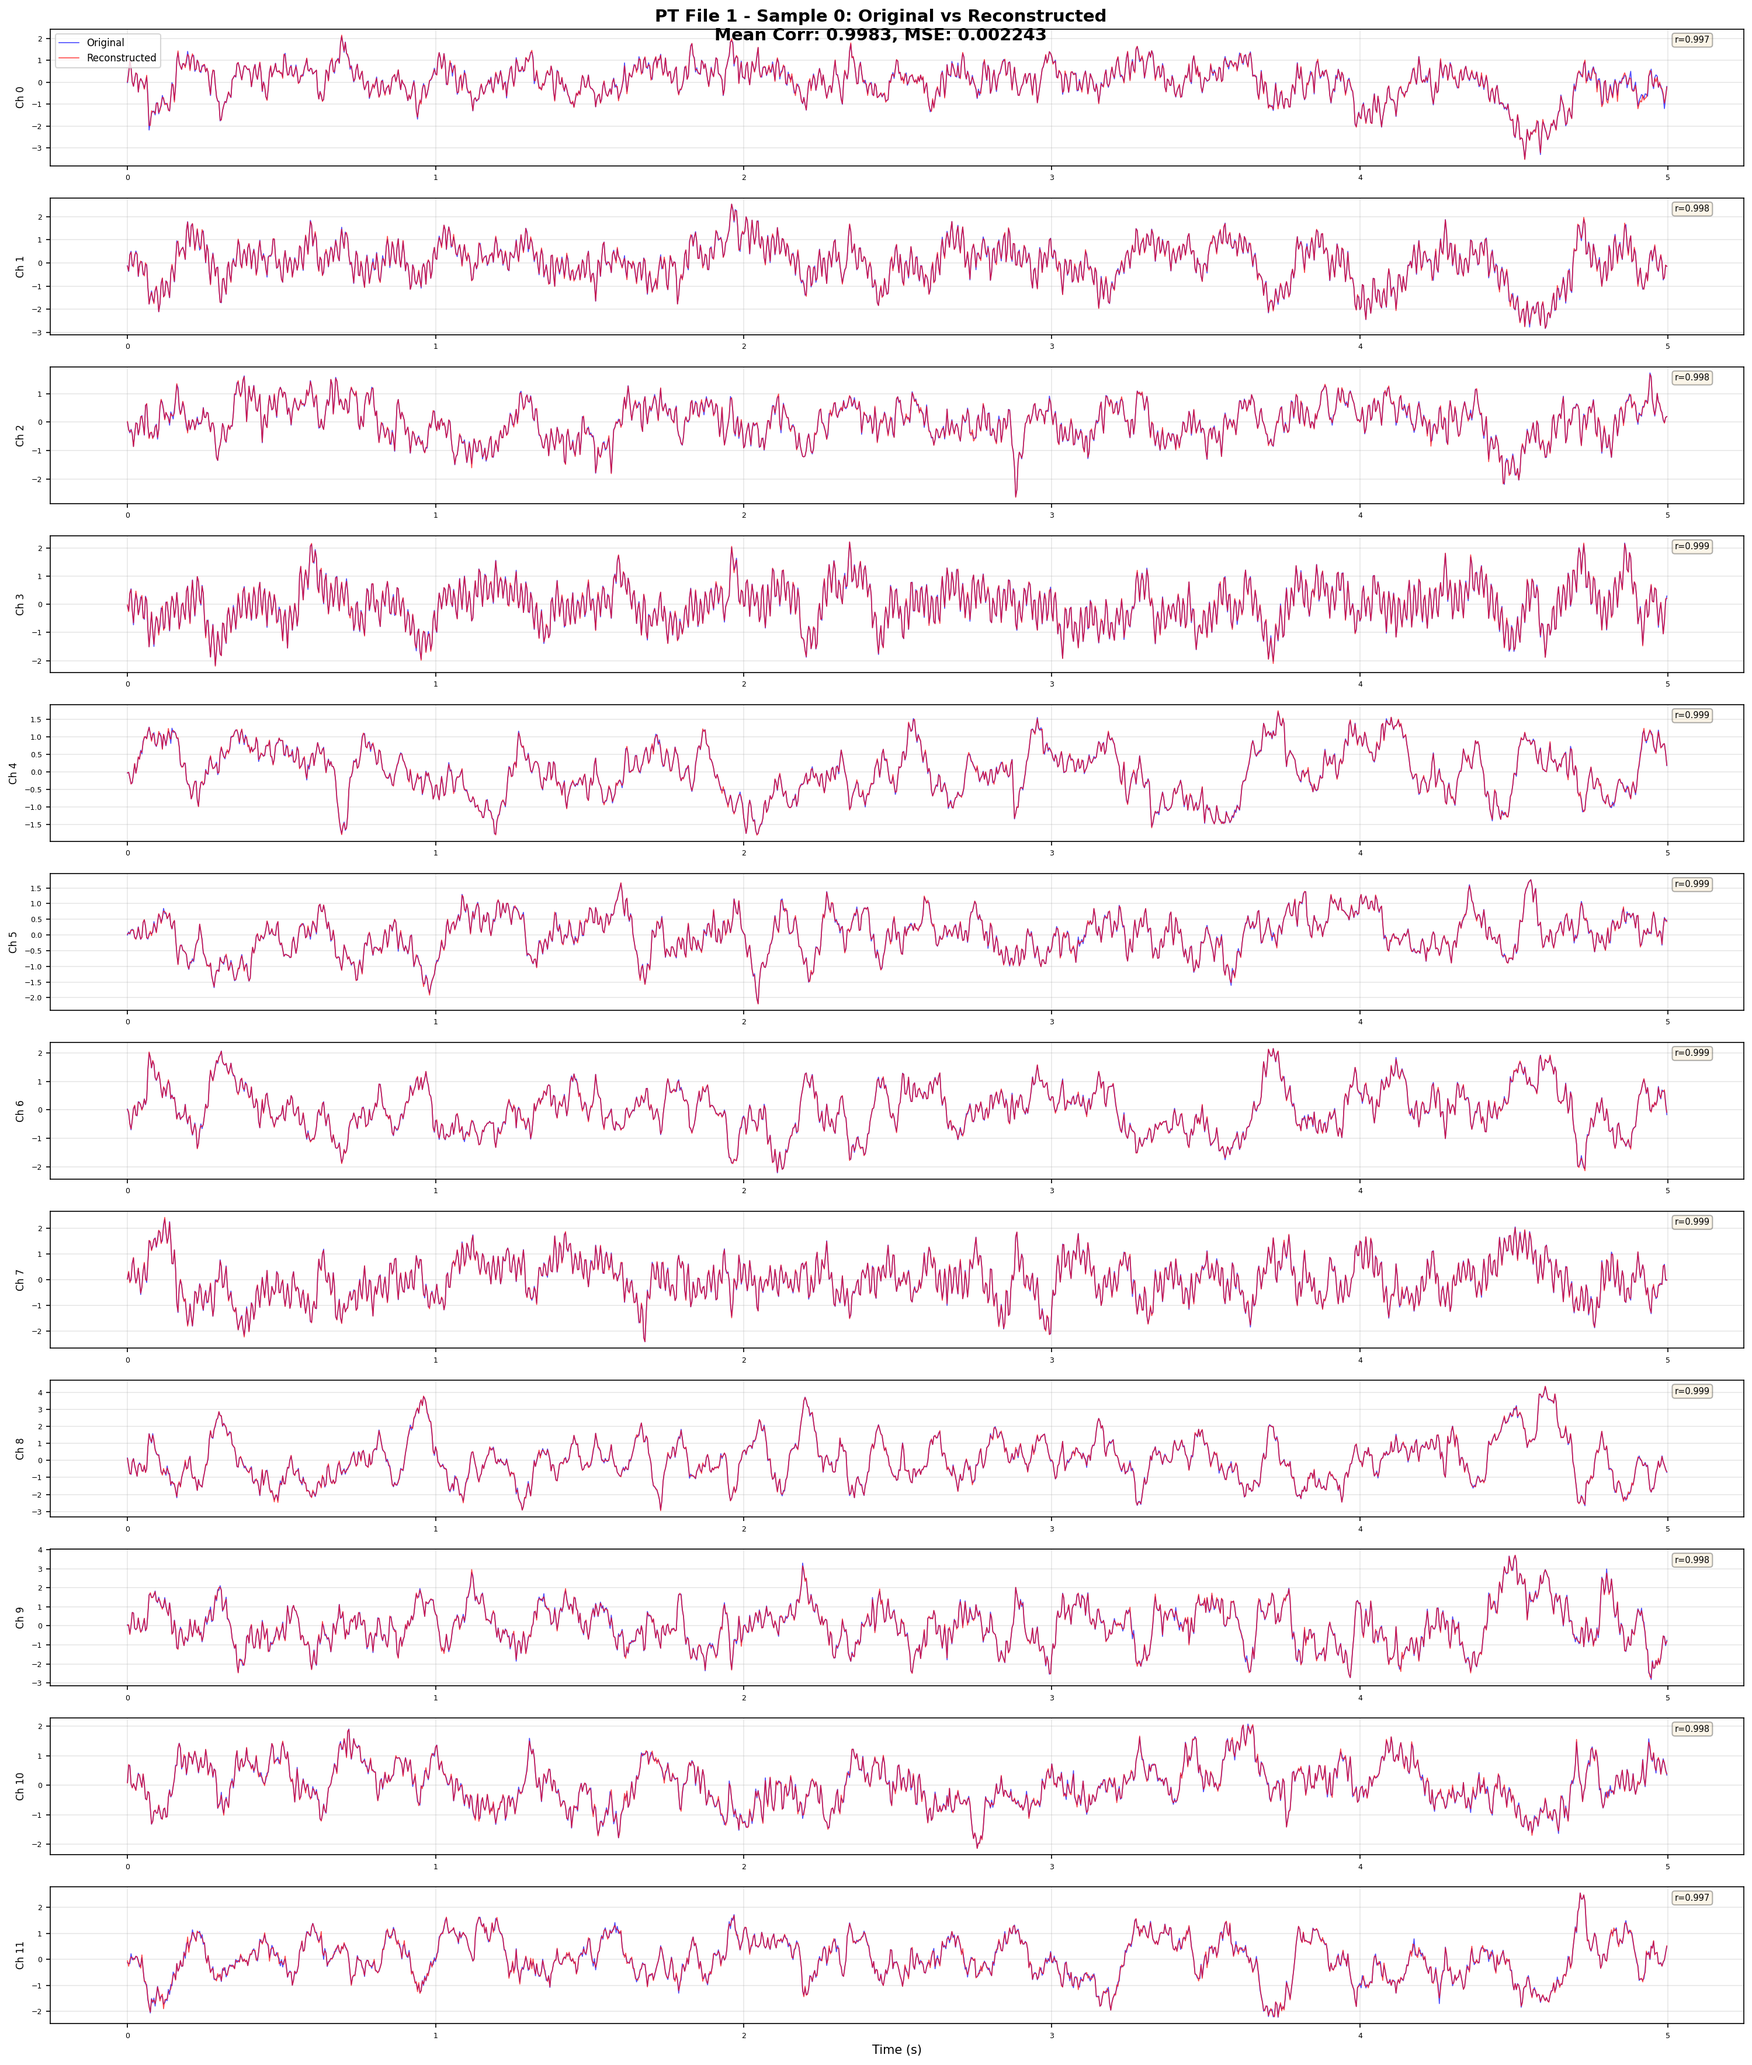
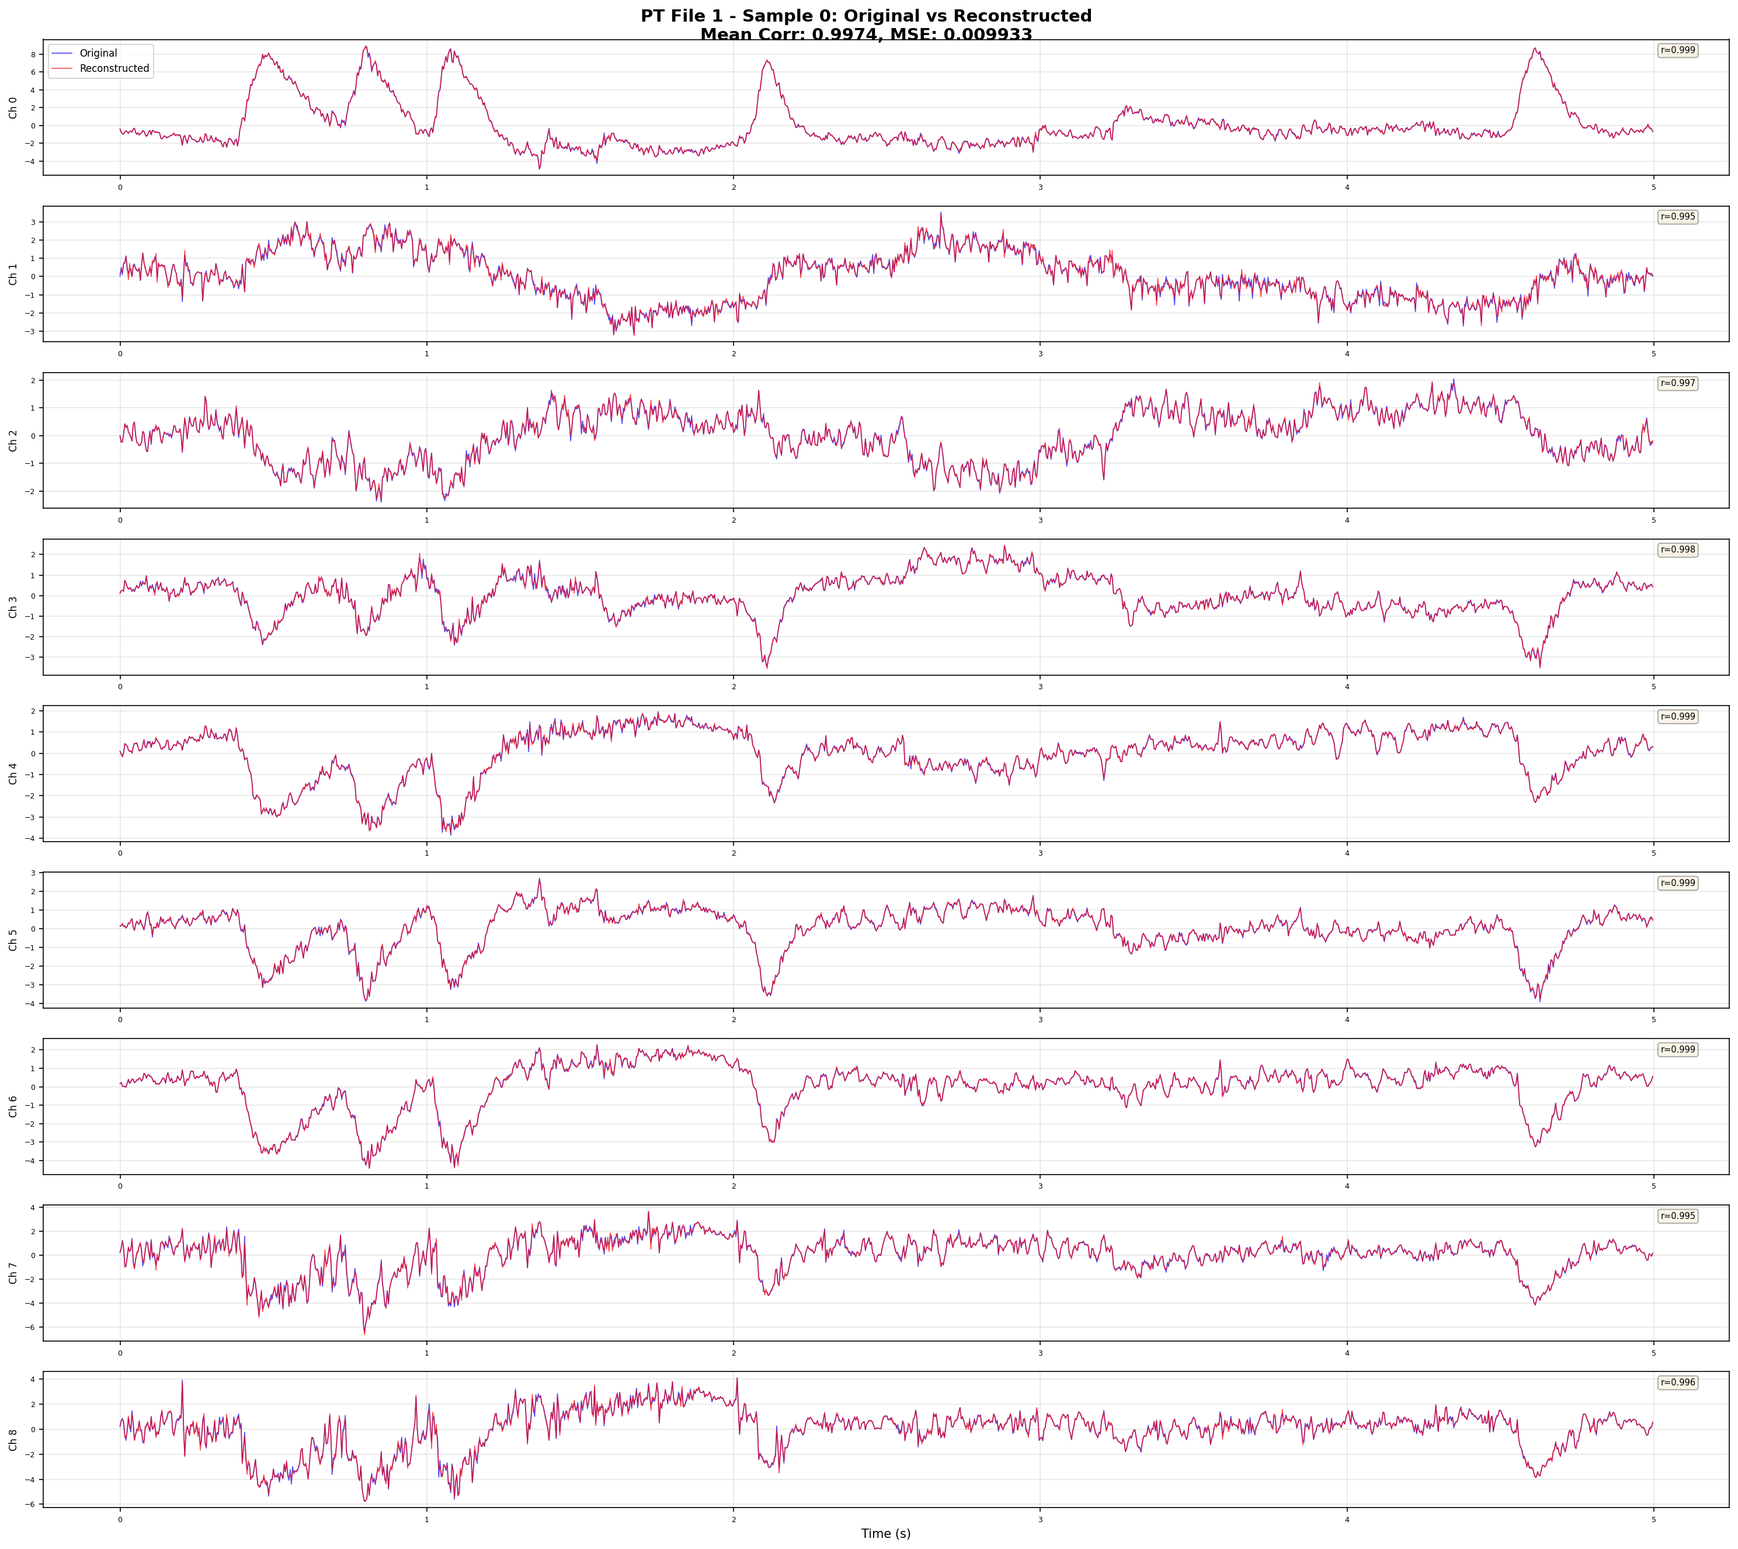
change path to longer fif

diff --git a/tutorials/getting_started.py b/tutorials/getting_started.py
@@ -17,16 +17,20 @@ from zuna.pipeline import run_zuna, zuna_preprocessing, zuna_inference, zuna_pt_
 # CONFIGURE YOUR PATHS HERE
 # =============================================================================
 
-INPUT_DIR = "data/1_fif_input"                # Input .fif files
-OUTPUT_DIR = "data/4_fif_output"              # Output reconstructed .fif files
+# INPUT_DIR = "data/1_fif_input"                # Input .fif files
+# PT_INPUT_DIR = 'data/2_pt_input'     # Where to save preprocessed .pt files (None = OUTPUT_DIR/tmp/pt_input)
+# PT_OUTPUT_DIR = 'data/3_pt_output'    # Where to save model output .pt files (None = OUTPUT_DIR/tmp/pt_output)
+# OUTPUT_DIR = "data/4_fif_output"              # Output reconstructed .fif files
+# CHECKPOINT = "/data/checkpoints/bci/bci_AY2l_bigrun16e/checkpoints/0000150000"
+
+INPUT_DIR = "/data/datasets/bci/dataset_downloads_cw/pip_test/1_fif"                # Input .fif files
+PT_INPUT_DIR = '/data/datasets/bci/dataset_downloads_cw/pip_test/2_pt_input'     # Where to save preprocessed .pt files (None = OUTPUT_DIR/tmp/pt_input)
+PT_OUTPUT_DIR = '/data/datasets/bci/dataset_downloads_cw/pip_test/3_pt_output'    # Where to save model output .pt files (None = OUTPUT_DIR/tmp/pt_output)
+OUTPUT_DIR = "/data/datasets/bci/dataset_downloads_cw/pip_test/4_fif_output"              # Output reconstructed .fif files
 CHECKPOINT = "/data/checkpoints/bci/bci_AY2l_bigrun16e/checkpoints/0000150000"
 
 UPSAMPLE_FACTOR = None  # None for no upsampling, or integer (e.g., 2, 4)
 GPU_DEVICE = 1          # GPU device ID
-
-# Optional: Specify custom paths for intermediate .pt files (None = use tmp folders in OUTPUT_DIR)
-PT_INPUT_DIR = 'data/2_pt_input'     # Where to save preprocessed .pt files (None = OUTPUT_DIR/tmp/pt_input)
-PT_OUTPUT_DIR = 'data/3_pt_output'    # Where to save model output .pt files (None = OUTPUT_DIR/tmp/pt_output)
 
 # =============================================================================
 # OPTION 1: Complete Pipeline (Recommended)
